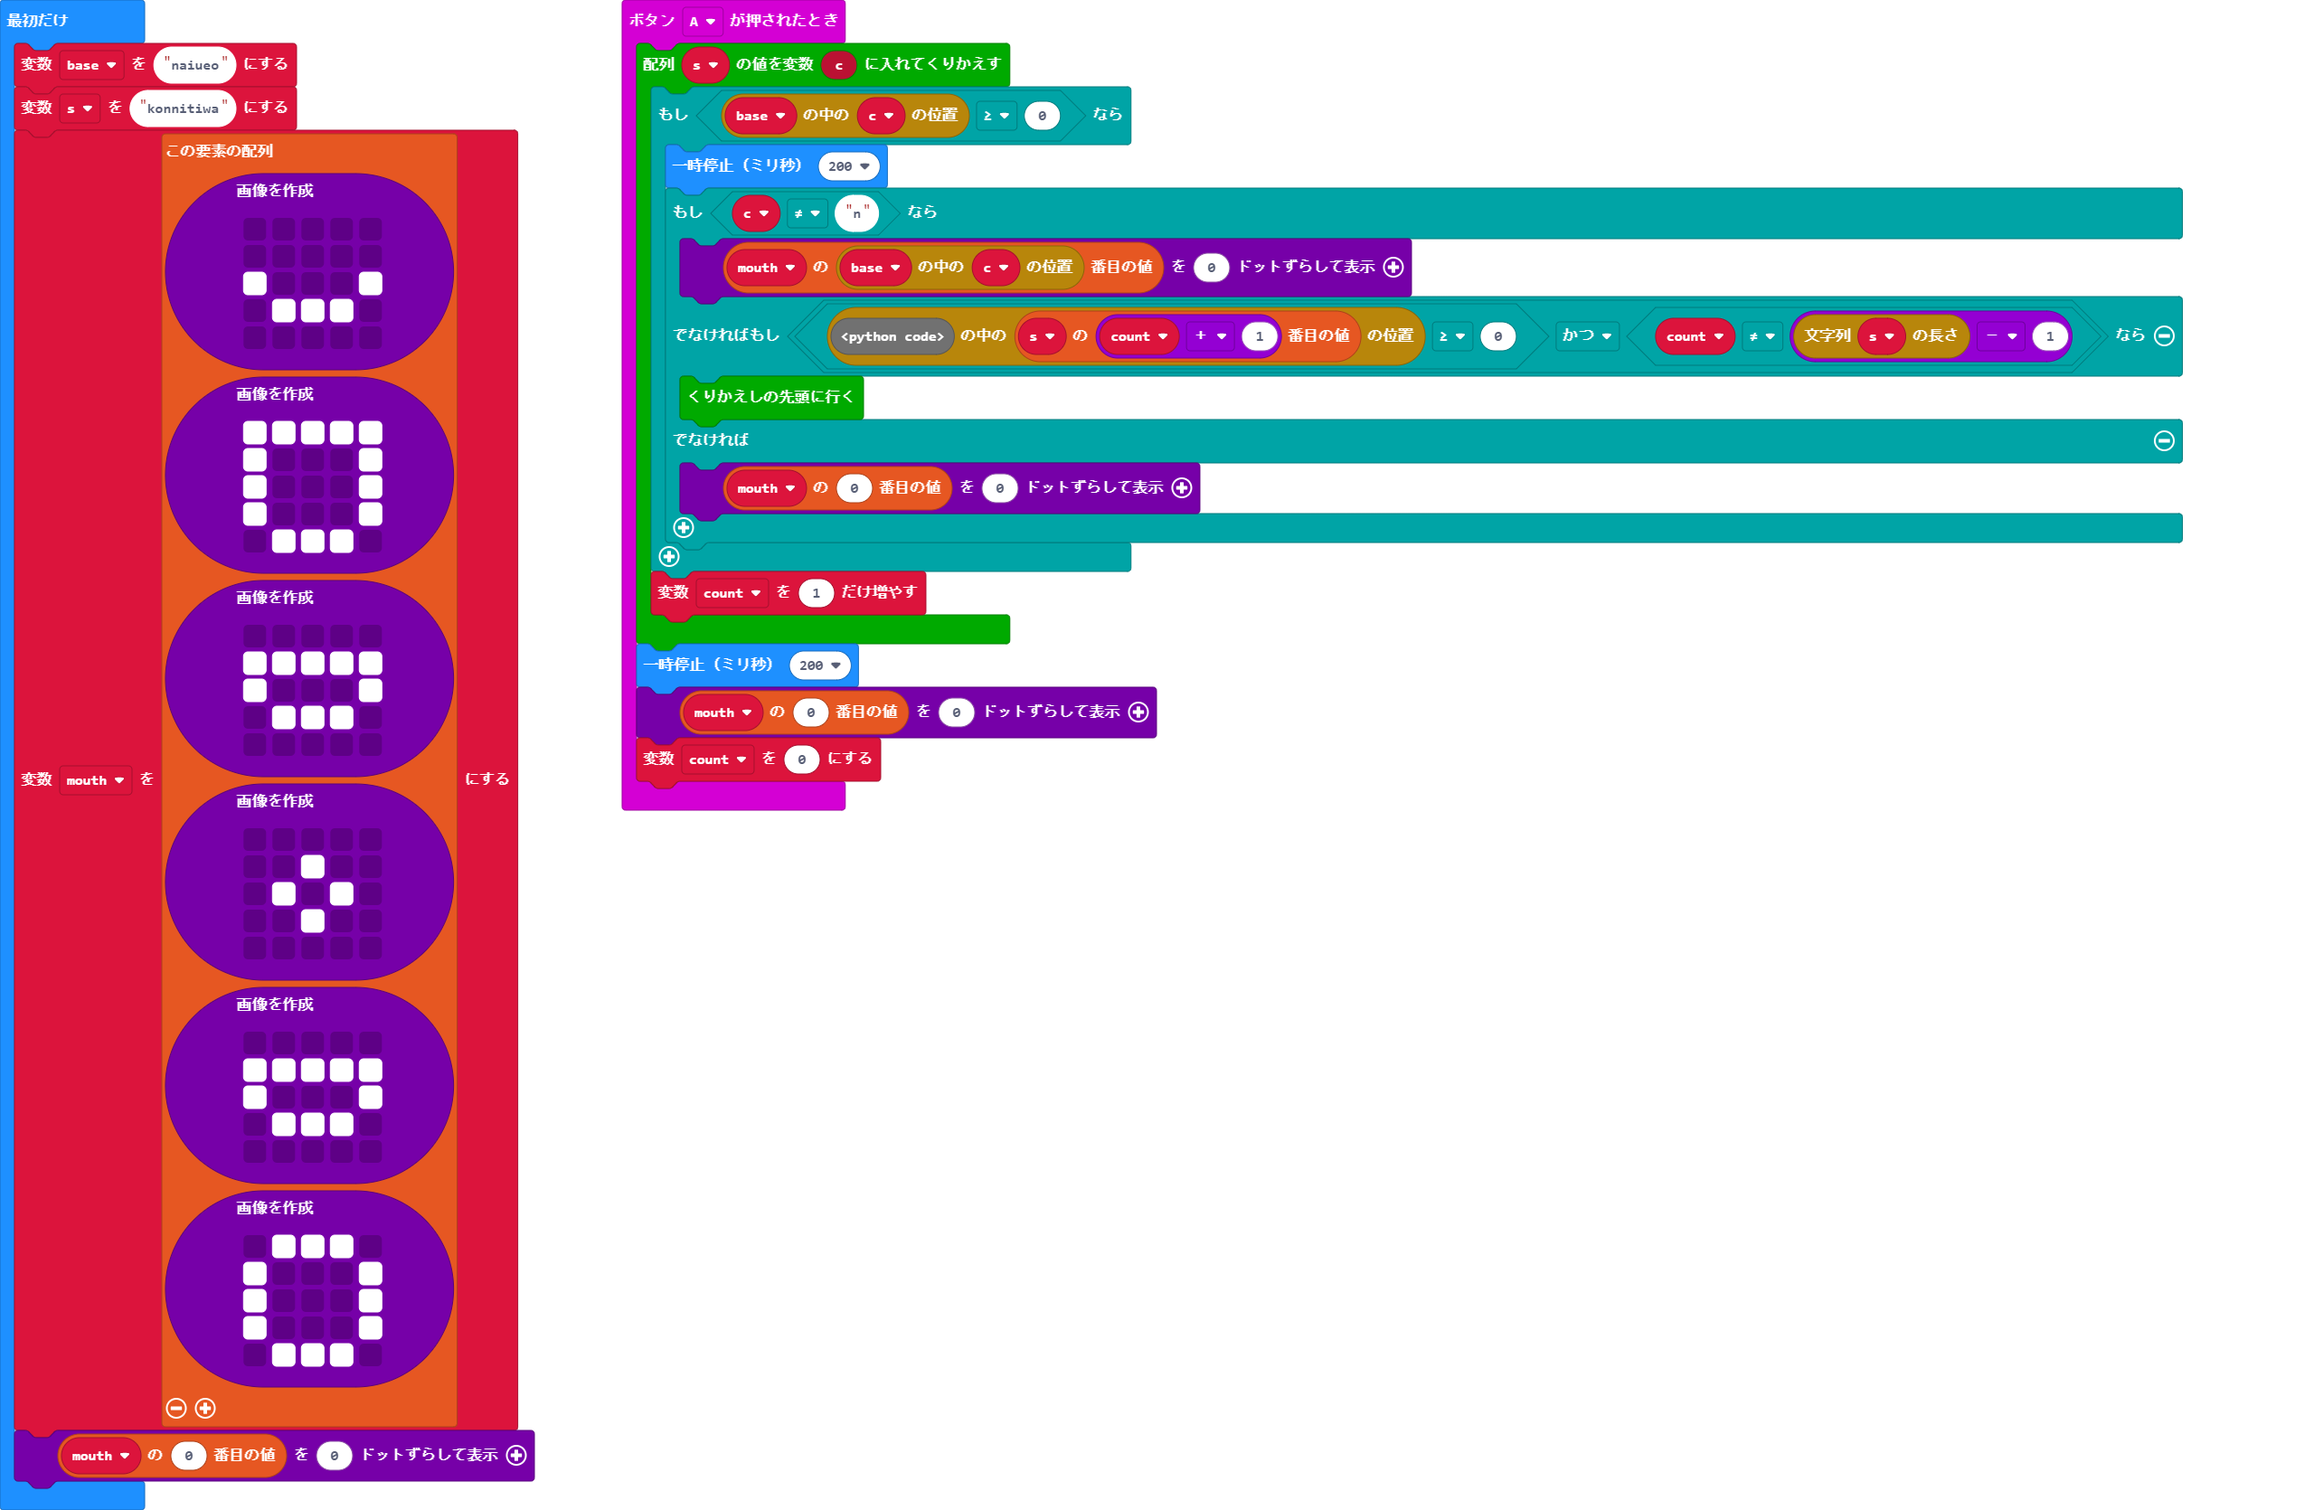
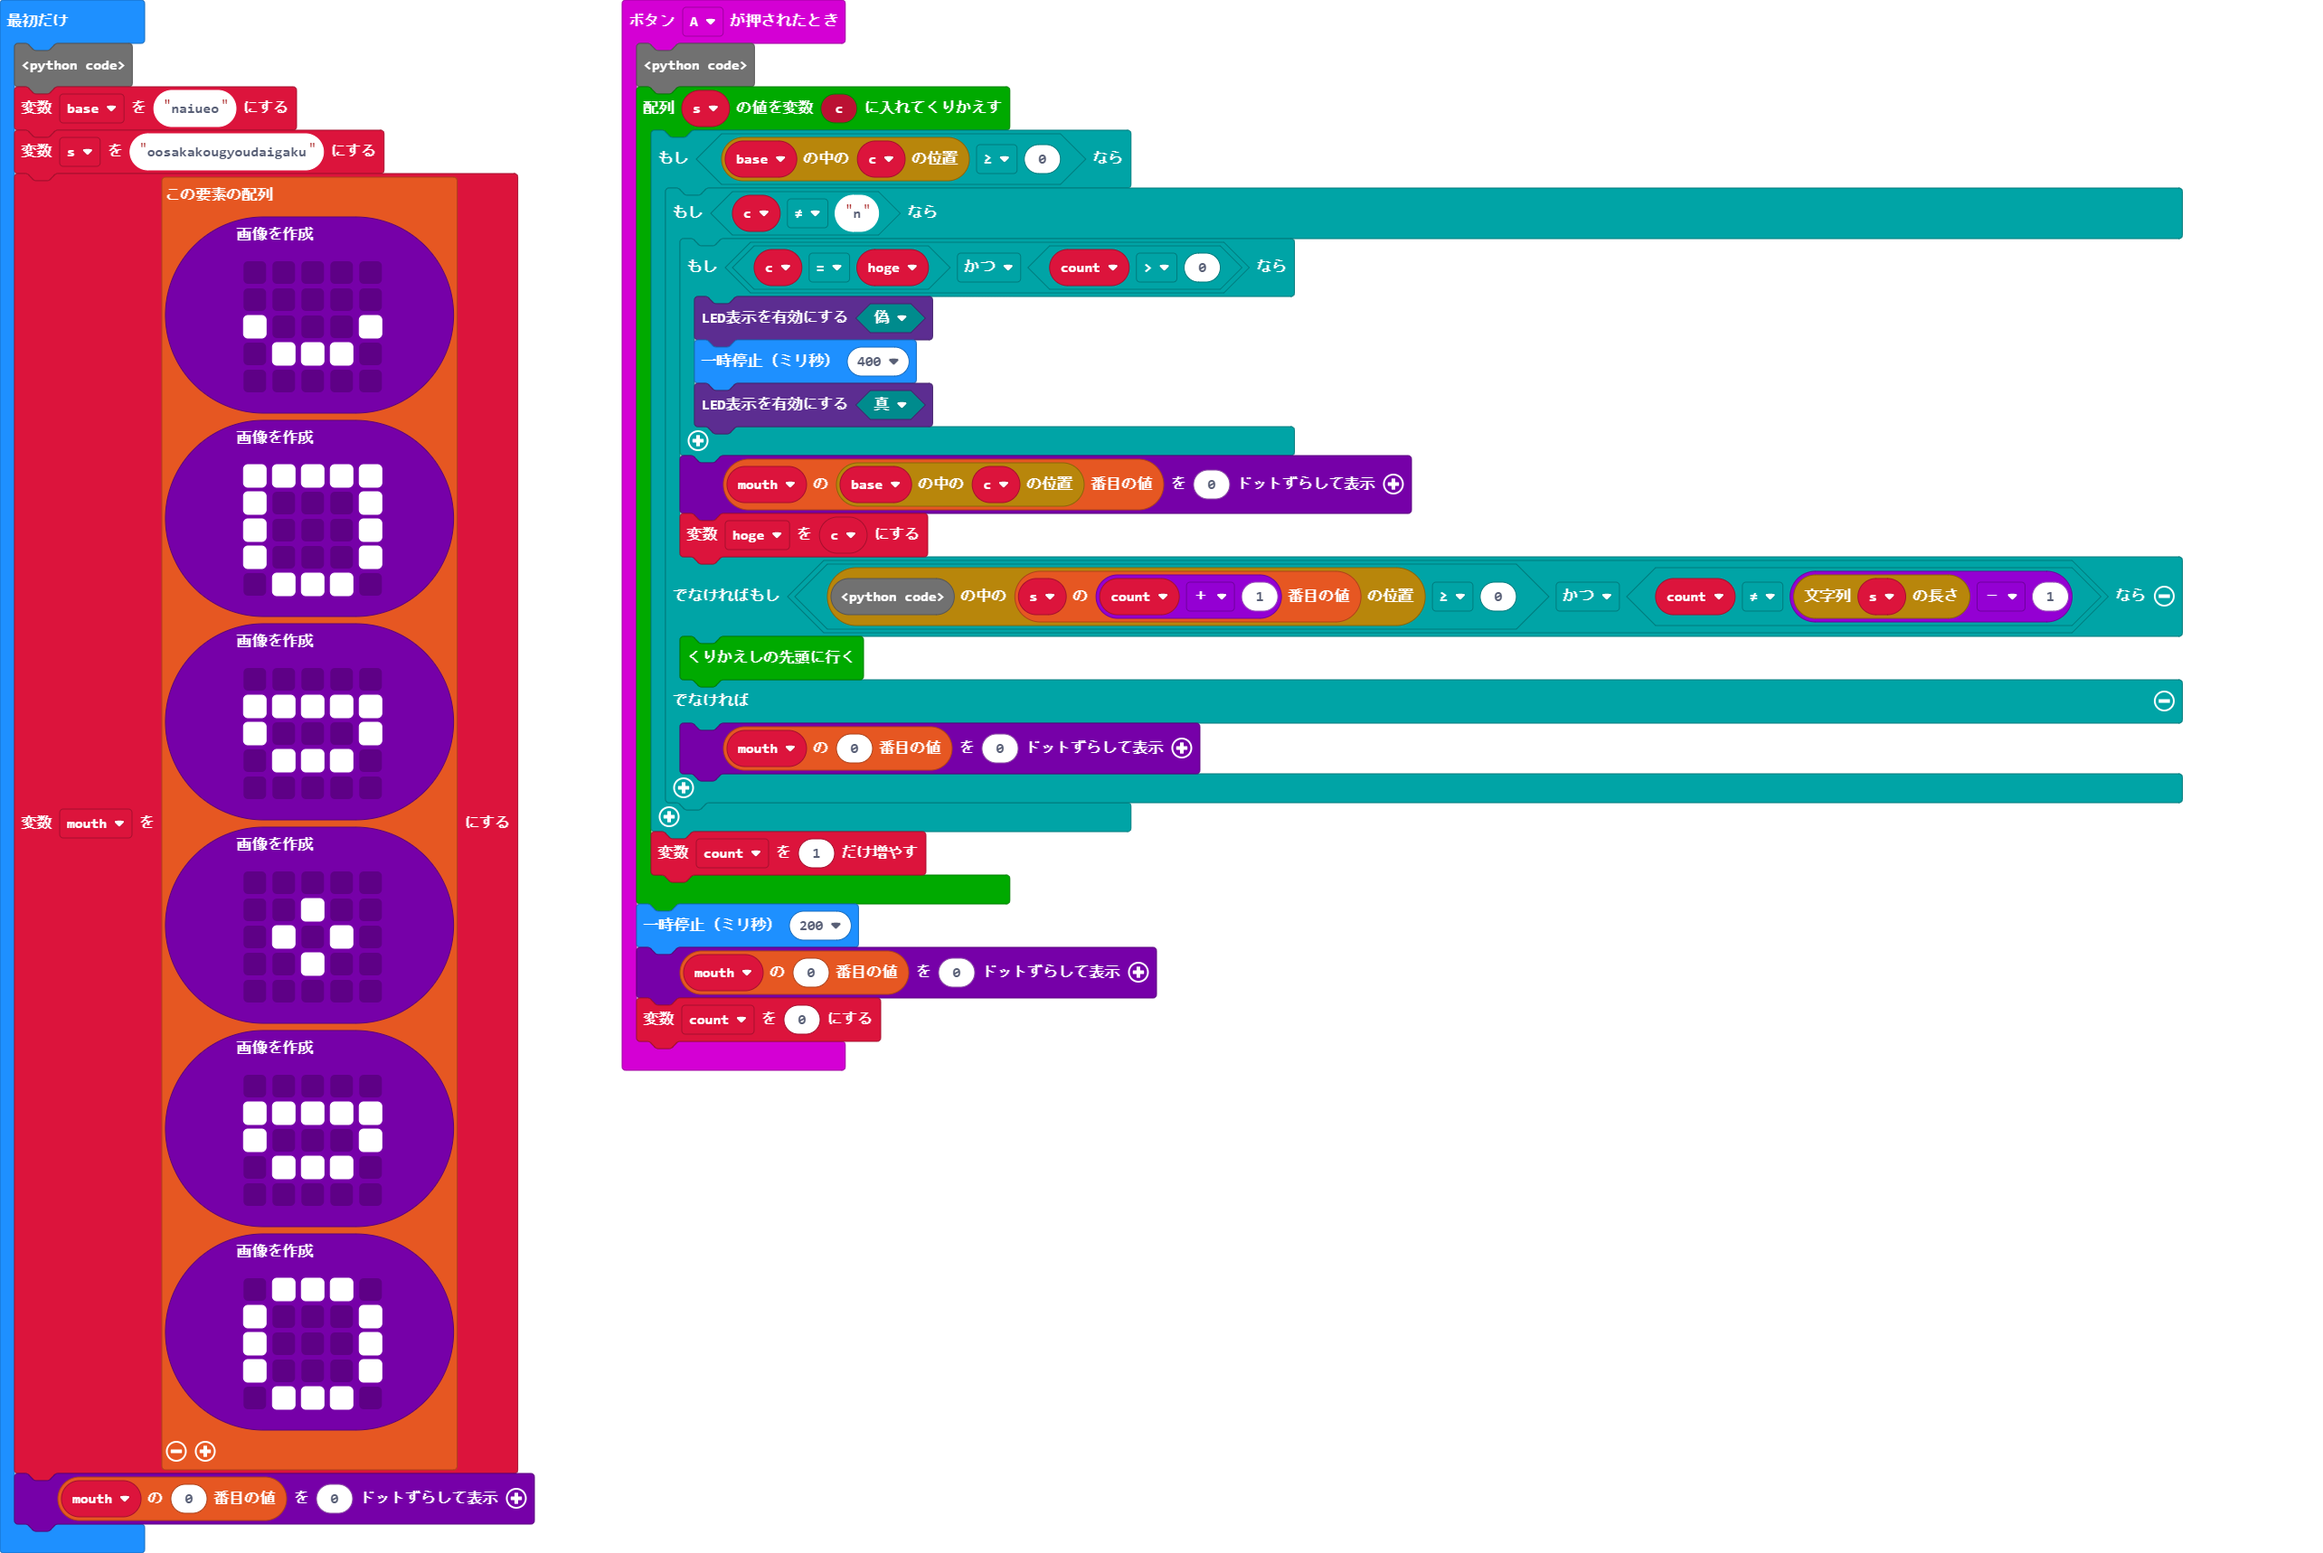
同母音の時点滅

Changed region(s): [[0.2491, 0.0, 0.9654, 0.7162], [0.0, 0.0, 0.2491, 0.9964]]

diff --git a/main.ts b/main.ts
@@ -1,10 +1,17 @@
 input.onButtonPressed(Button.A, function on_button_pressed_a() {
+    let hoge: string;
     
     for (let c of s) {
         if (base.indexOf(c) >= 0) {
-            basic.pause(200)
             if (c != "n") {
+                if (c == hoge && count > 0) {
+                    led.enable(false)
+                    basic.pause(400)
+                    led.enable(true)
+                }
+                
                 mouth[base.indexOf(c)].showImage(0)
+                hoge = c
             } else if (base.slice(1).indexOf(s[count + 1]) >= 0 && count != s.length - 1) {
                 continue
             } else {
@@ -24,7 +31,7 @@ let mouth : Image[] = []
 let s = ""
 let base = ""
 base = "naiueo"
-s = "konnitiwa"
+s = "oosakakougyoudaigaku"
 mouth = [images.createImage(`
     . . . . .
     . . . . .

diff --git a/main.py b/main.py
@@ -2,9 +2,13 @@ def on_button_pressed_a():
     global count
     for c in s:
         if base.index_of(c) >= 0:
-            basic.pause(200)
             if c != "n":
+                if c == hoge and count > 0:
+                    led.enable(False)
+                    basic.pause(400)
+                    led.enable(True)
                 mouth[base.index_of(c)].show_image(0)
+                hoge = c
             elif base.slice(1).index_of(s[count + 1]) >= 0 and count != len(s) - 1:
                 continue
             else:
@@ -20,7 +24,7 @@ mouth: List[Image] = []
 s = ""
 base = ""
 base = "naiueo"
-s = "konnitiwa"
+s = "oosakakougyoudaigaku"
 mouth = [images.create_image("""
     . . . . .
     . . . . .
